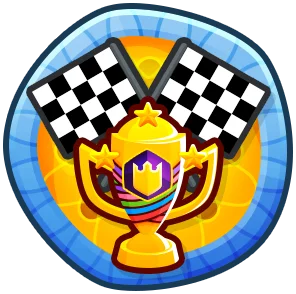
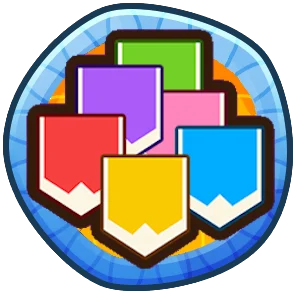
2.5.1

diff --git a/insta.html b/insta.html
@@ -253,7 +253,7 @@
         document.getElementById("profile-content").appendChild(loginDiv);
 
         let current = await getLatestCollectionEvent();
-        if (now < new Date(current.end)) {
+        if (current != null && now < new Date(current.end)) {
             featuredInstaDiv.style.width = "780px";
             featuredInstaDiv.style.height = "85px";
             featuredInstaDiv.style.border = "8px solid #00000040";